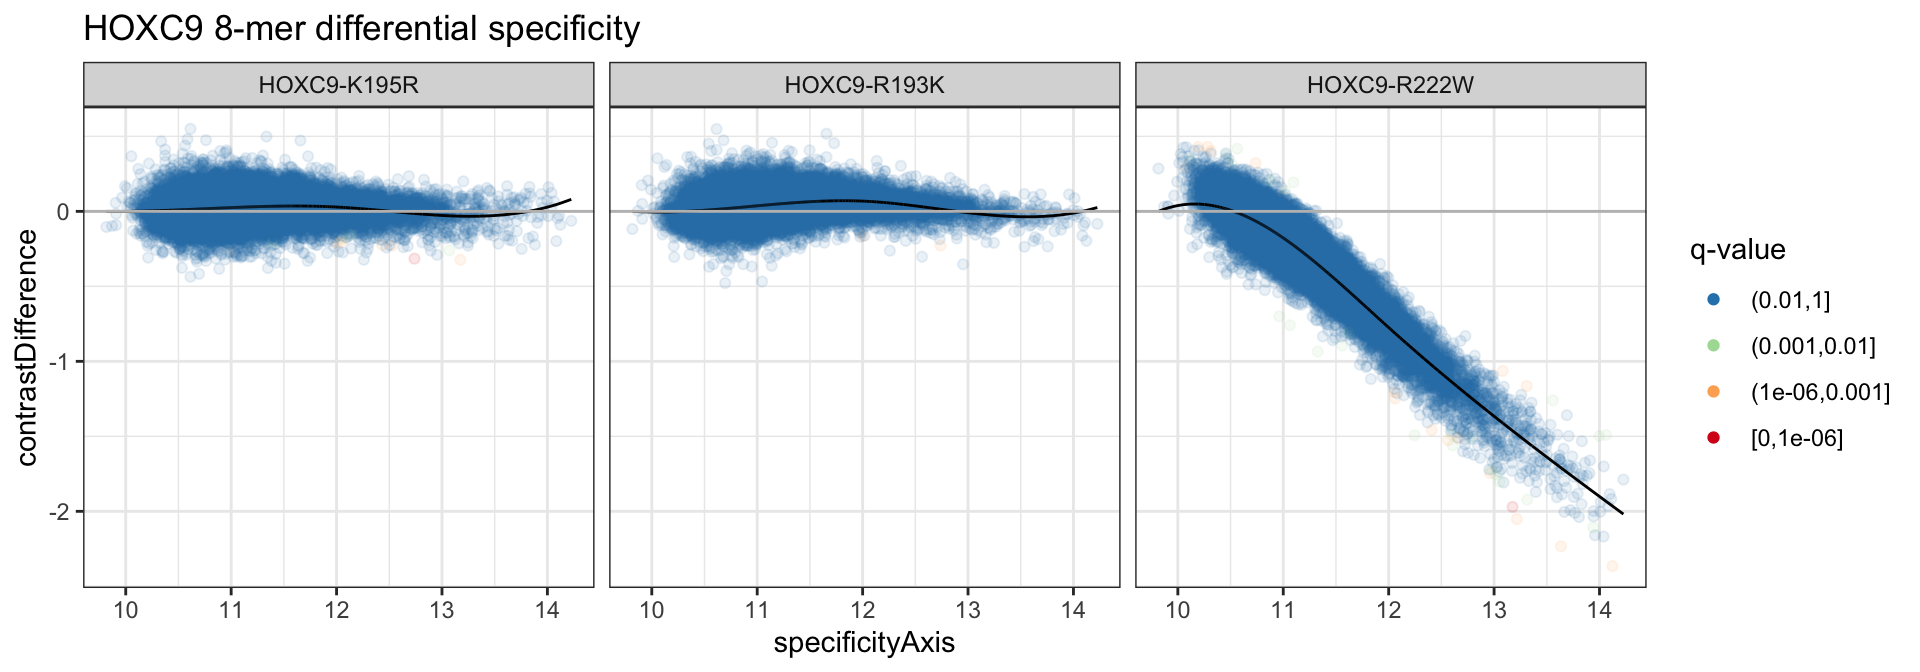
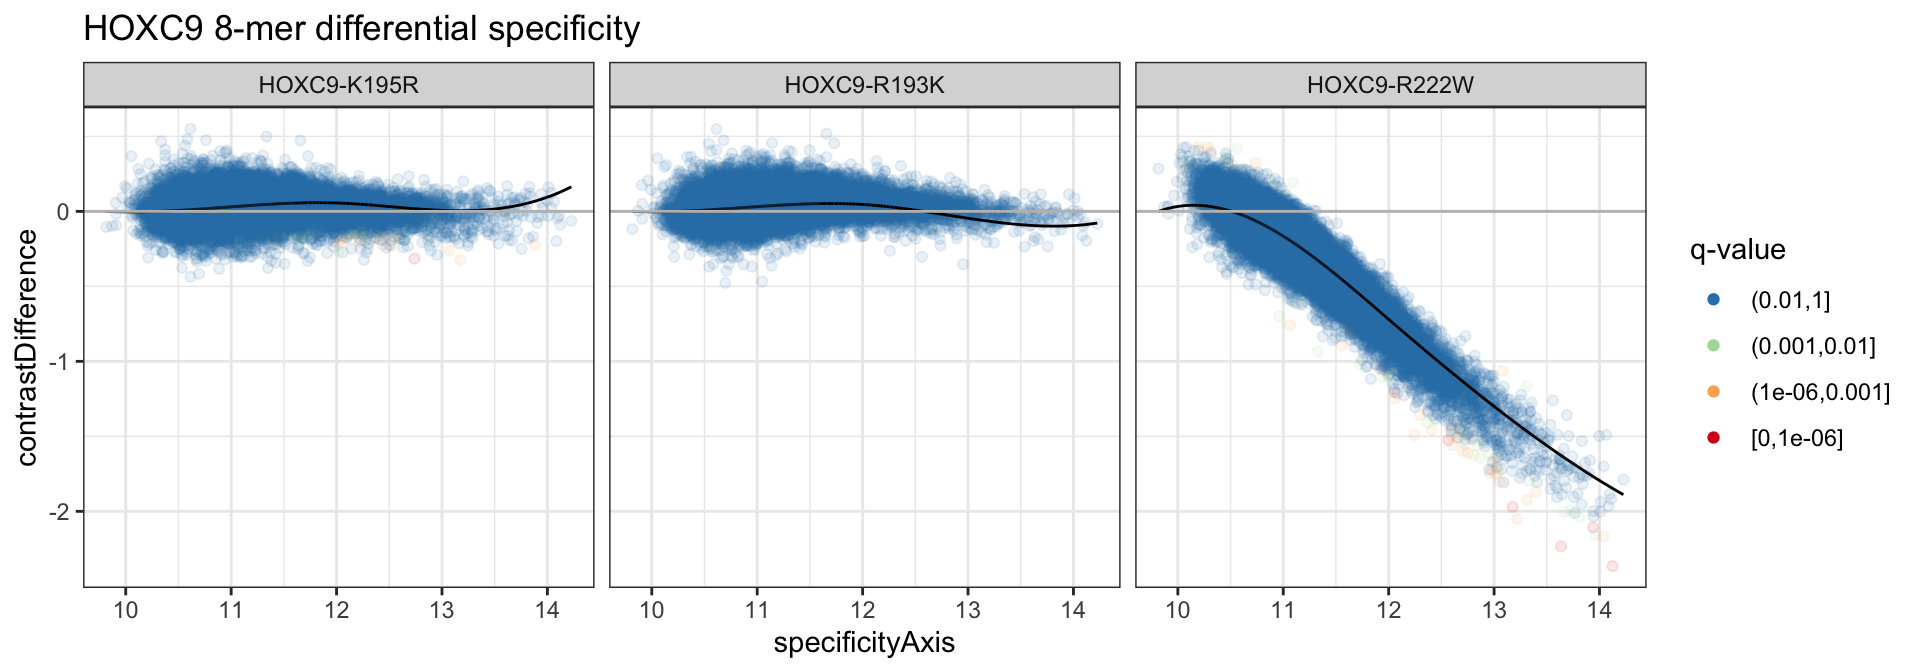
Update pkgdown site with new spec testing

diff --git a/docs/reference/kmerTestSpecificity.html b/docs/reference/kmerTestSpecificity.html
@@ -46,8 +46,21 @@ of k-mer affinities observed between conditions.
 For each condition, the common trend is estimated by fitting either a LOESS curve
 or B-spline smoother to the corresponding columns of the &quot;contrastAverage&quot; (x)
 and &quot;contrastDifference&quot; (y) assays of the input SummarizedExperiment object.
-Then, the difference between the observed differential affinity and the
+If useref = TRUE, instead of the &quot;contrastAverage&quot;, the
+&quot;affinityEstimate&quot; values of the reference condition are used as the x-axis.
+The difference between the observed differential affinity and the
 estimated trend is taken as the estimate of differential specificity.
+When method = &quot;subset&quot; (default), two trends are fit using weighted
+orinary linear regression and a B-spline basis. The two trends are meant to capture
+any differential specificities that may be smoothed out by fitting a single trend
+to the data. The two trends are identified by first splitting the data along
+the x-axis into 20 equal-width bins and fitting a
+two-component normal mixture to the &quot;contrastDifference&quot; values of k-mers
+in each bin. The upper and lower components in each cluster are grouped across
+the bins. The two trends are fit separately by weighing each k-mer based
+on the likelihood of belonging to either the upper or lower clusters. Finally,
+a single trend is selected to be used for testing by taking the trend which
+minimizes the mean residual across the top 50% of k-mers.
 After estimating k-mer level affinities using probe-set aggregate, this
 function tests for differential specificity between conditions." />
 <meta name="twitter:card" content="summary" />
@@ -172,14 +185,27 @@ of k-mer affinities observed between conditions.</p>
 <p>For each condition, the common trend is estimated by fitting either a LOESS curve
 or B-spline smoother to the corresponding columns of the <code>"contrastAverage"</code> (x)
 and <code>"contrastDifference"</code> (y) assays of the input SummarizedExperiment object.
-Then, the difference between the observed differential affinity and the
+If <code>useref = TRUE</code>, instead of the <code>"contrastAverage"</code>, the
+<code>"affinityEstimate"</code> values of the reference condition are used as the x-axis.
+The difference between the observed differential affinity and the
 estimated trend is taken as the estimate of differential specificity.</p>
+<p>When <code>method = "subset"</code> (default), two trends are fit using weighted
+orinary linear regression and a B-spline basis. The two trends are meant to capture
+any differential specificities that may be smoothed out by fitting a single trend
+to the data. The two trends are identified by first splitting the data along
+the x-axis into 20 equal-width bins and fitting a
+two-component normal mixture to the <code>"contrastDifference"</code> values of k-mers
+in each bin. The upper and lower components in each cluster are grouped across
+the bins. The two trends are fit separately by weighing each k-mer based
+on the likelihood of belonging to either the upper or lower clusters. Finally,
+a single trend is selected to be used for testing by taking the trend which
+minimizes the mean residual across the top 50% of k-mers.</p>
 <p>After estimating k-mer level affinities using probe-set aggregate, this
 function tests for differential specificity between conditions.</p>
     </div>
 
-    <pre class="usage"><span class='fu'>kmerTestSpecificity</span>(<span class='no'>se</span>, <span class='kw'>method</span> <span class='kw'>=</span> <span class='fu'><a href='https://rdrr.io/r/base/c.html'>c</a></span>(<span class='st'>"bs"</span>, <span class='st'>"loess"</span>), <span class='kw'>span</span> <span class='kw'>=</span> <span class='fl'>0.05</span>,
-  <span class='kw'>useref</span> <span class='kw'>=</span> <span class='fl'>TRUE</span>, <span class='no'>...</span>)</pre>
+    <pre class="usage"><span class='fu'>kmerTestSpecificity</span>(<span class='no'>se</span>, <span class='kw'>method</span> <span class='kw'>=</span> <span class='fu'><a href='https://rdrr.io/r/base/c.html'>c</a></span>(<span class='st'>"subset"</span>, <span class='st'>"bs"</span>, <span class='st'>"loess"</span>),
+  <span class='kw'>span</span> <span class='kw'>=</span> <span class='fl'>0.05</span>, <span class='kw'>useref</span> <span class='kw'>=</span> <span class='fl'>TRUE</span>, <span class='no'>...</span>)</pre>
 
     <h2 class="hasAnchor" id="arguments"><a class="anchor" href="#arguments"></a>Arguments</h2>
     <table class="ref-arguments">
@@ -191,8 +217,8 @@ function tests for differential specificity between conditions.</p>
     <tr>
       <th>method</th>
       <td><p>string value specifying method to use for fitting
-specificity trend. Must be one of <code>"bs"</code> or <code>"loess"</code>.
-(default = "bs")</p></td>
+specificity trend. Must be one of <code>"subset"</code>, <code>"bs"</code>,
+or <code>"loess"</code>. (default = "subset")</p></td>
     </tr>
     <tr>
       <th>span</th>
@@ -203,7 +229,8 @@ used when <code>method = "loess"</code>. (default = 0.05)</p></td>
       <th>useref</th>
       <td><p>logical value whether to fit specificity trend as function of
 reference intensities rather than the average of reference and
-variant intensities. (defualt = TRUE)</p></td>
+variant intensities. Must be TRUE if <code>method = "subset"</code>.
+(defualt = TRUE)</p></td>
     </tr>
     <tr>
       <th>...</th>

diff --git a/docs/articles/upbm-classes.html b/docs/articles/upbm-classes.html
@@ -108,7 +108,7 @@
       <h1>upbm: Class Details</h1>
                         <h4 class="author">Patrick K. Kimes</h4>
             
-            <h4 class="date">11 February 2020</h4>
+            <h4 class="date">15 February 2020</h4>
       
       <small class="dont-index">Source: <a href="https://github.com/pkimes/upbm/blob/master/vignettes/upbm-classes.Rmd"><code>vignettes/upbm-classes.Rmd</code></a></small>
       <div class="hidden name"><code>upbm-classes.Rmd</code></div>
@@ -169,7 +169,7 @@
 <p>Here, the <em>PBMDesign</em> object includes a single probe filtering rule associated with the <code>"probeID"</code> column.</p>
 <div class="sourceCode" id="cb9"><pre class="sourceCode r"><code class="sourceCode r"><span id="cb9-1"><a href="#cb9-1"></a><span class="kw"><a href="../reference/PBMclass-accessors.html">probeFilter</a></span>(pbm_8x60k_v1)<span class="op">$</span>probeID</span></code></pre></div>
 <pre><code>## function(x) { grepl("^dBr", x) }
-## &lt;bytecode: 0x7fe367bb36f0&gt;</code></pre>
+## &lt;bytecode: 0x7fc402f1a898&gt;</code></pre>
 <p>The rule must be a function that takes the specified column (<code>"probeID"</code>) as input and returns a logical vector of the same length. Only rows which return <code>TRUE</code> for all rules are kept for downstream analysis. In the <code>pbm_8x60k_v1</code> design, the single filter checks the probe IDs and returns <code>TRUE</code> for the subset prefixed with <code>dBr_</code>, corresponding to the subset of de Bruijn sequence probes on the array. Filtering can be performed using <code><a href="../reference/pbmFilterProbes.html">upbm::pbmFilterProbes</a></code>.</p>
 <div class="sourceCode" id="cb11"><pre class="sourceCode r"><code class="sourceCode r"><span id="cb11-1"><a href="#cb11-1"></a>pbm_8x60k_filtered &lt;-<span class="st"> </span><span class="kw"><a href="../reference/pbmFilterProbes.html">pbmFilterProbes</a></span>(pbm_8x60k_v1)</span>
 <span id="cb11-2"><a href="#cb11-2"></a>pbm_8x60k_filtered</span></code></pre></div>
@@ -260,7 +260,7 @@
 <div class="sourceCode" id="cb28"><pre class="sourceCode r"><code class="sourceCode r"><span id="cb28-1"><a href="#cb28-1"></a><span class="kw"><a href="../reference/PBMclass-accessors.html">probeFilter</a></span>(hoxc9alexa)</span></code></pre></div>
 <pre><code>## $probeID
 ## function(x) { grepl("^dBr", x) }
-## &lt;bytecode: 0x7fe3717f4078&gt;</code></pre>
+## &lt;bytecode: 0x7fc3f0784878&gt;</code></pre>
 <div class="sourceCode" id="cb30"><pre class="sourceCode r"><code class="sourceCode r"><span id="cb30-1"><a href="#cb30-1"></a><span class="kw"><a href="../reference/PBMclass-accessors.html">probeTrim</a></span>(hoxc9alexa)</span></code></pre></div>
 <pre><code>## [1]  1 36</code></pre>
 <p>Additionally, we can see that the <code>probeCols</code> columns of the row metadata match the <code>design</code> slot of <code>pbm_8x60k_v1</code>.</p>

diff --git a/docs/articles/analysis-inference.html b/docs/articles/analysis-inference.html
@@ -108,7 +108,7 @@
       <h1>upbm: Inference Details</h1>
                         <h4 class="author">Patrick K. Kimes</h4>
             
-            <h4 class="date">11 February 2020</h4>
+            <h4 class="date">15 February 2020</h4>
       
       <small class="dont-index">Source: <a href="https://github.com/pkimes/upbm/blob/master/vignettes/analysis-inference.Rmd"><code>vignettes/analysis-inference.Rmd</code></a></small>
       <div class="hidden name"><code>analysis-inference.Rmd</code></div>
@@ -299,9 +299,9 @@
 <pre><code>## # A tibble: 3 x 5
 ##   cname       `(0.01,1]` `(0.001,0.01]` `(1e-06,0.001]` `[0,1e-06]`
 ##   &lt;chr&gt;            &lt;dbl&gt;          &lt;dbl&gt;           &lt;dbl&gt;       &lt;dbl&gt;
-## 1 HOXC9-K195R      32883              6               6           1
-## 2 HOXC9-R193K      32894              0               2           0
-## 3 HOXC9-R222W      32854             24              17           1</code></pre>
+## 1 HOXC9-K195R      32837             36              22           1
+## 2 HOXC9-R193K      32896              0               0           0
+## 3 HOXC9-R222W      32825             31              34           6</code></pre>
 <p>We can similarly plot the residuals as well.</p>
 <div class="sourceCode" id="cb27"><pre class="sourceCode r"><code class="sourceCode r"><span id="cb27-1"><a href="#cb27-1"></a>ds_dat <span class="op">%&gt;%</span></span>
 <span id="cb27-2"><a href="#cb27-2"></a><span class="st">    </span><span class="kw"><a href="https://ggplot2.tidyverse.org/reference/ggplot.html">ggplot</a></span>(<span class="kw"><a href="https://ggplot2.tidyverse.org/reference/aes.html">aes</a></span>(<span class="dt">x =</span> specificityAxis)) <span class="op">+</span></span>

diff --git a/docs/articles/upbm-quickstart.html b/docs/articles/upbm-quickstart.html
@@ -108,7 +108,7 @@
       <h1>upbm: Analysis of universal Protein Binding Microarrays in R</h1>
                         <h4 class="author">Patrick K. Kimes</h4>
             
-            <h4 class="date">11 February 2020</h4>
+            <h4 class="date">15 February 2020</h4>
       
       <small class="dont-index">Source: <a href="https://github.com/pkimes/upbm/blob/master/vignettes/upbm-quickstart.Rmd"><code>vignettes/upbm-quickstart.Rmd</code></a></small>
       <div class="hidden name"><code>upbm-quickstart.Rmd</code></div>

diff --git a/docs/articles/analysis-preprocessing.html b/docs/articles/analysis-preprocessing.html
@@ -108,7 +108,7 @@
       <h1>upbm: Pre-Processing Details</h1>
                         <h4 class="author">Patrick K. Kimes</h4>
             
-            <h4 class="date">11 February 2020</h4>
+            <h4 class="date">15 February 2020</h4>
       
       <small class="dont-index">Source: <a href="https://github.com/pkimes/upbm/blob/master/vignettes/analysis-preprocessing.Rmd"><code>vignettes/analysis-preprocessing.Rmd</code></a></small>
       <div class="hidden name"><code>analysis-preprocessing.Rmd</code></div>

diff --git a/docs/articles/analysis-summarization.html b/docs/articles/analysis-summarization.html
@@ -108,7 +108,7 @@
       <h1>upbm: Summarization Details</h1>
                         <h4 class="author">Patrick K. Kimes</h4>
             
-            <h4 class="date">11 February 2020</h4>
+            <h4 class="date">15 February 2020</h4>
       
       <small class="dont-index">Source: <a href="https://github.com/pkimes/upbm/blob/master/vignettes/analysis-summarization.Rmd"><code>vignettes/analysis-summarization.Rmd</code></a></small>
       <div class="hidden name"><code>analysis-summarization.Rmd</code></div>

diff --git a/docs/articles/other-tidydata.html b/docs/articles/other-tidydata.html
@@ -108,7 +108,7 @@
       <h1>upbm: Tidying PBM Data</h1>
                         <h4 class="author">Patrick K. Kimes</h4>
             
-            <h4 class="date">11 February 2020</h4>
+            <h4 class="date">15 February 2020</h4>
       
       <small class="dont-index">Source: <a href="https://github.com/pkimes/upbm/blob/master/vignettes/other-tidydata.Rmd"><code>vignettes/other-tidydata.Rmd</code></a></small>
       <div class="hidden name"><code>other-tidydata.Rmd</code></div>

diff --git a/docs/articles/other-qcplots.html b/docs/articles/other-qcplots.html
@@ -108,7 +108,7 @@
       <h1>upbm: QC Plots</h1>
                         <h4 class="author">Patrick K. Kimes</h4>
             
-            <h4 class="date">11 February 2020</h4>
+            <h4 class="date">15 February 2020</h4>
       
       <small class="dont-index">Source: <a href="https://github.com/pkimes/upbm/blob/master/vignettes/other-qcplots.Rmd"><code>vignettes/other-qcplots.Rmd</code></a></small>
       <div class="hidden name"><code>other-qcplots.Rmd</code></div>
